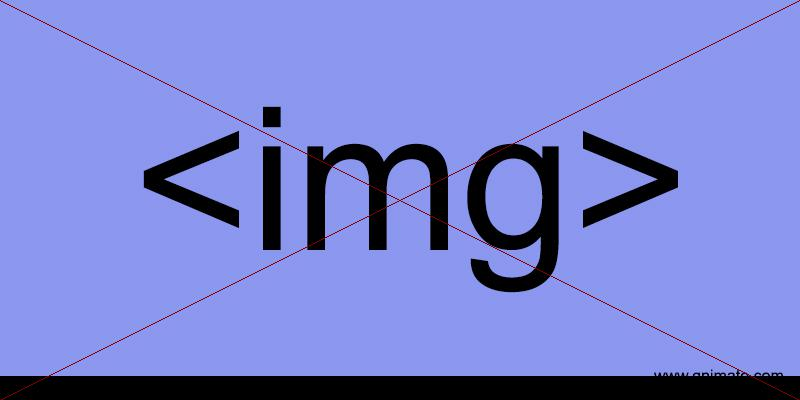
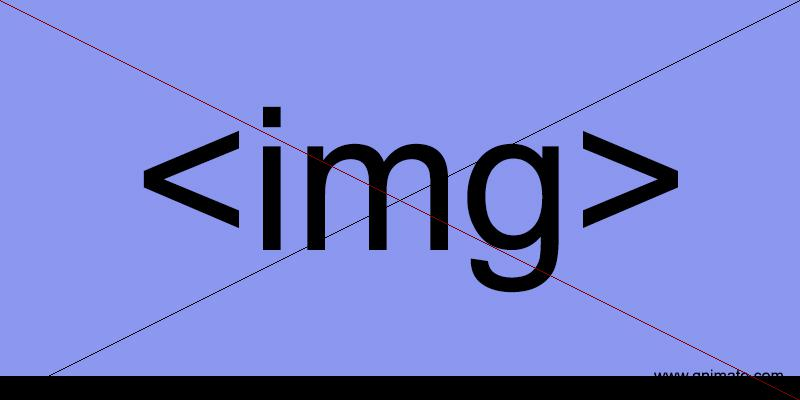
👼👧 Checkpoint server.py:706703/122 start.sh:706703/16

diff --git a/server.py b/server.py
@@ -31,7 +31,7 @@ def tweet_image():
 
       draw = ImageDraw.Draw(im)
       draw.line((0, 0) + im.size, fill=128)
-      draw.line((0, im.size[1], im.size[0], 0), fill=128)
+      draw.line((0, im.size[1], im.size[0], 0), fill=(1, 1, 1))
       del draw
 
 # write to stdout
